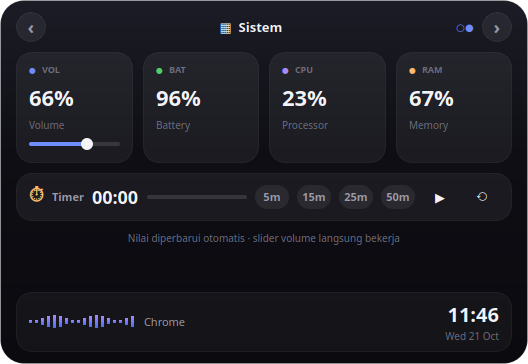
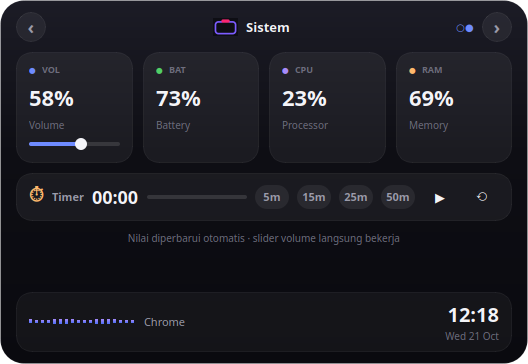
Fix:Bug Tab

diff --git a/notchy/ui/activities.py b/notchy/ui/activities.py
@@ -2,6 +2,7 @@
 from __future__ import annotations
 
 import math
+import os
 import random
 
 from PySide6.QtCore import Qt, QTimer, Signal
@@ -69,6 +70,11 @@ class ElidedLabel(QLabel):
         return getattr(self, "_full_text", self.text())
 
 
+ASSETS_DIR = os.path.normpath(os.path.join(
+    os.path.dirname(os.path.abspath(__file__)), "..", "..", "assets"))
+LOGO_ICON = os.path.join(ASSETS_DIR, "notchy-icon.png")
+
+
 class Activities(QWidget):
     volume_changed = Signal(int)
     play_pause_clicked = Signal()
@@ -123,6 +129,12 @@ class Activities(QWidget):
 
         self.set_opacity_for(0.0)
 
+    def _logo_pixmap(self, height: int) -> QPixmap:
+        pm = QPixmap(LOGO_ICON)
+        if pm.isNull():
+            return pm
+        return pm.scaledToHeight(height, Qt.SmoothTransformation)
+
     # ============================================================ COMPACT
     def _build_compact(self) -> QWidget:
         row = QWidget()
@@ -130,11 +142,17 @@ class Activities(QWidget):
         lay.setContentsMargins(14, 0, 14, 0)
         lay.setSpacing(8)
 
-        self.compact_dot = QLabel("●")
+        self.compact_dot = QLabel()
         self.compact_dot.setObjectName("c-dot")
         self.compact_dot.setAlignment(Qt.AlignCenter)
-        self.compact_dot.setFixedWidth(18)
-        self.compact_dot.setFixedHeight(20)
+        self.compact_dot.setFixedHeight(22)
+        pm = self._logo_pixmap(20)
+        if not pm.isNull():
+            self.compact_dot.setPixmap(pm)
+            self.compact_dot.setFixedWidth(int(pm.width() * 20 / max(1, pm.height())))
+        else:
+            self.compact_dot.setText("●")
+            self.compact_dot.setFixedWidth(18)
         lay.addWidget(self.compact_dot)
 
         self.compact_title = ElidedLabel("notchy")
@@ -176,10 +194,23 @@ class Activities(QWidget):
         self.tab_prev.setProperty("tab_delta", -1)
         header.addWidget(self.tab_prev)
 
-        self.tab_title = QLabel("♪  Musik")
+        self.tab_logo = QLabel()
+        self.tab_logo.setObjectName("tab-logo")
+        pm = self._logo_pixmap(18)
+        if not pm.isNull():
+            self.tab_logo.setPixmap(pm)
+        mid = QWidget()
+        mlay = QHBoxLayout(mid)
+        mlay.setContentsMargins(0, 0, 0, 0)
+        mlay.setSpacing(8)
+        mlay.addStretch(1)
+        mlay.addWidget(self.tab_logo)
+        self.tab_title = QLabel("Musik")
         self.tab_title.setObjectName("tab-title")
         self.tab_title.setAlignment(Qt.AlignCenter)
-        header.addWidget(self.tab_title, 1)
+        mlay.addWidget(self.tab_title)
+        mlay.addStretch(1)
+        header.addWidget(mid, 1)
 
         self.tab_dots = QLabel("●○")
         self.tab_dots.setObjectName("tab-dots")
@@ -234,7 +265,7 @@ class Activities(QWidget):
         lay.addWidget(footer)
 
         self._tab_index = 0
-        self._tab_names = ("♪  Musik", "▦  Sistem")
+        self._tab_names = ("Musik", "Sistem")
         return box
 
     # ============================================================ PAGE: MUSIK
@@ -292,6 +323,9 @@ class Activities(QWidget):
             chips.addWidget(c)
         chips.addStretch(1)
         info.addLayout(chips)
+
+        # jarak ekstra chips → progress bar (biar tidak menempel)
+        info.addSpacing(12)
 
         # scrub seekable (klik / drag untuk lompat posisi)
         self.scrub = QFrame()
@@ -723,18 +757,15 @@ class Activities(QWidget):
 
     def _refresh_compact(self) -> None:
         # prioritas: peek (toast/hud) > timer > musik
+        # logo tetap di compact_dot (identitas) — hanya teks yang berganti
         if self._peek:
-            _prio, text, icon, _exp = max(self._peek.values(), key=lambda v: v[0])
+            _prio, text, _icon, _exp = max(self._peek.values(), key=lambda v: v[0])
             self.compact_title.set_full_text(text)
-            self.compact_dot.setText(icon)
             return
         if self.timer is not None and self.timer.active:
-            icon = "⏸" if self.timer.running else "⏸"
             self.compact_title.set_full_text(f"{self.timer.label}  {self.timer.text()}")
-            self.compact_dot.setText("▶" if self.timer.running else "⏸")
             return
         self.compact_title.set_full_text(self._base_title)
-        self.compact_dot.setText(self._base_icon)
 
     # ------------------------------------------------------------ morph
     def set_opacity_for(self, t: float) -> None:
@@ -766,13 +797,16 @@ class Activities(QWidget):
         self._art_loaded_url = url
 
     def _art_fallback(self, color: str) -> None:
-        self.art_label.clear()
-        self.art_label.setText("♪")
         self.art_label.setStyleSheet(
             f"background: qlineargradient(x1:0,y1:0,x2:1,y2:1, stop:0 {color},"
-            f" stop:1 #7C5CFF); border-radius: 16px; color: rgba(255,255,255,0.85);"
-            f" font: 700 26px Sans;"
+            f" stop:1 #7C5CFF); border-radius: 16px;"
         )
+        pm = self._logo_pixmap(52)
+        if not pm.isNull():
+            self.art_label.setText("")
+            self.art_label.setPixmap(pm)
+        else:
+            self.art_label.setText("♪")
         self._art_loaded_url = ""
 
     def _update_art(self, art_url: str) -> None:

diff --git a/notchy/ui/island.py b/notchy/ui/island.py
@@ -34,6 +34,14 @@ class IslandWindow(QWidget):
         self.setAttribute(Qt.WA_ShowWithoutActivating, False)
         self.setWindowTitle("notchy")
 
+        import os as _os
+        from PySide6.QtGui import QIcon as _QIcon
+
+        _icon_path = _os.path.normpath(_os.path.join(
+            _os.path.dirname(_os.path.abspath(__file__)), "..", "..", "assets", "notchy-icon.png"))
+        if _os.path.isfile(_icon_path):
+            self.setWindowIcon(_QIcon(_icon_path))
+
         self.providers = make_providers()
         from ..providers.base import SystemState
 
@@ -373,6 +381,14 @@ def run_qt() -> int:
 
     app = QApplication(sys.argv)
     app.setApplicationName("notchy")
+
+    import os as _os
+    from PySide6.QtGui import QIcon as _QIcon
+
+    _icon_path = _os.path.normpath(_os.path.join(
+        _os.path.dirname(_os.path.abspath(__file__)), "..", "..", "assets", "notchy-icon.png"))
+    if _os.path.isfile(_icon_path):
+        app.setWindowIcon(_QIcon(_icon_path))
     app.setQuitOnLastWindowClosed(True)
 
     win = IslandWindow()

diff --git a/notchy/ui/style.py b/notchy/ui/style.py
@@ -15,11 +15,10 @@ ISLAND_QSS = f"""
     border-radius: {C.RADIUS_ISLAND}px;
 }}
 #c-dot {{
-    color: {C.ACCENT};
     background: transparent;
-    font-weight: 700; font-size: 11px; font-family: Sans;
-    min-width: 18px; max-width: 18px; min-height: 20px; max-height: 20px;
+    padding: 0; margin: 0;
 }}
+#tab-logo {{ background: transparent; }}
 #c-title {{ color: {C.TEXT}; font-weight: 600; font-size: 11px; font-family: Sans; }}
 #c-chip {{
     color: {C.TEXT_DIM};

diff --git a/README.md b/README.md
@@ -45,8 +45,10 @@ klik kanan → Quit · slider volume langsung bekerja.
 
 ## Fitur
 
-- **Pill compact** (`264×40`, rounded penuh) — ikon status, teks fokus
+- **Pill compact** (`264×40`, rounded penuh) — **logo notchy**, teks fokus
   (lagu / timer / toast), waveform mini, jam
+- **Branding** — logo tampil di pill compact, header tab, placeholder art saat
+  idle, dan icon jendela/taskbar
 - **Panel expanded bertab** (`528×364`) — hanya fitur yang isinya banyak
   dijadikan tab, diganti lewat **panah ‹ ›** (klik / keyboard kiri-kanan / scroll)
   dengan animasi slide-out/slide-in (OutCubic):
@@ -85,6 +87,9 @@ klik kanan → Quit · slider volume langsung bekerja.
 
 ```
 run.py                      entry point (Qt)
+assets/
+    notchy-icon.png         ikon (crop dari notchy-hero-dark.png)
+    notchy-wordmark.png     wordmark
 notchy/config.py            design token + geometri + timing
 notchy/art.py               fetch & thumbnail album art (file/http/data URI)
 notchy/providers/
